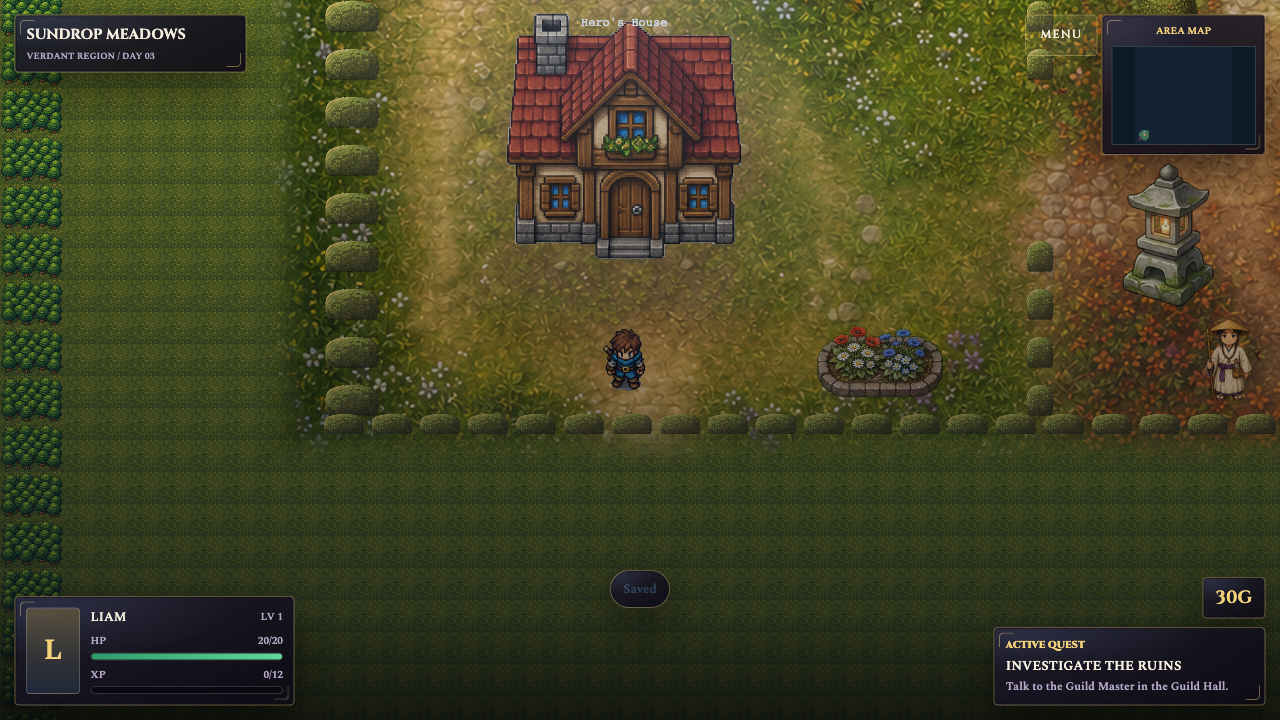
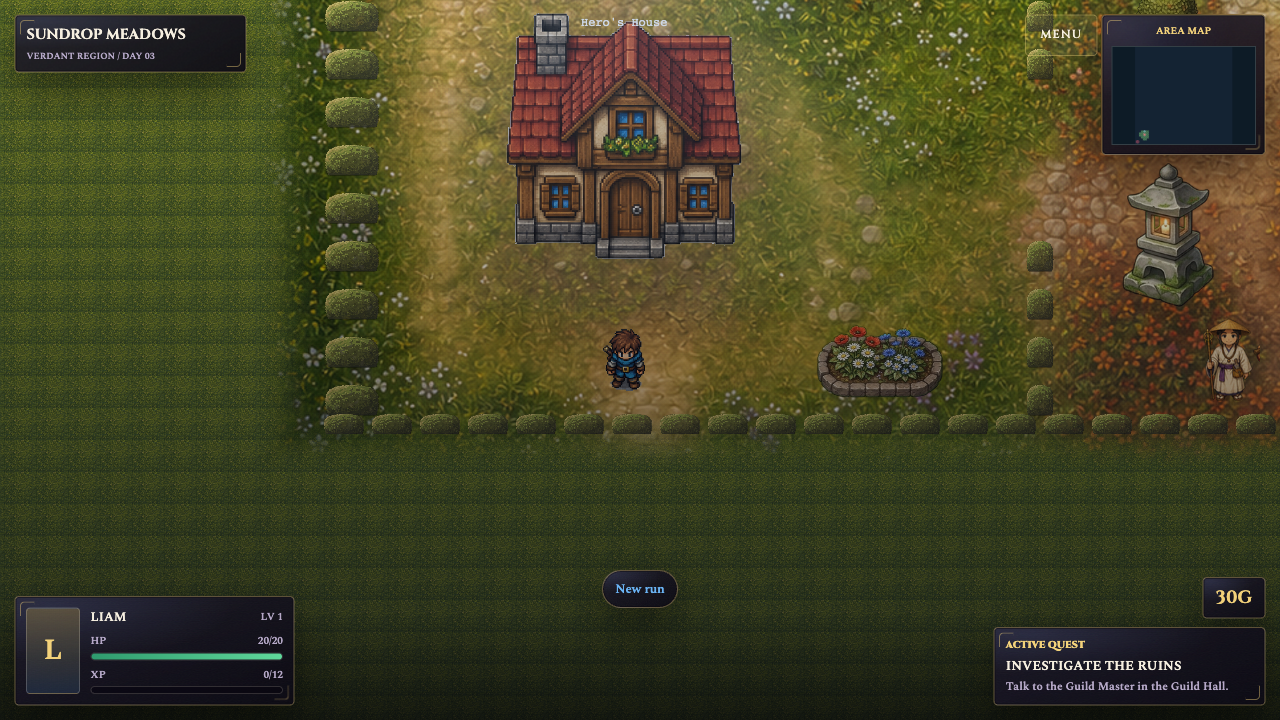
fix(maps): clear Home Yard tree wall

Changed region(s): [[0.0, 0.0, 0.0625, 0.8556], [0.4688, 0.7944, 0.5312, 0.8556]]

diff --git a/src/lib/game/content/maps.test.ts b/src/lib/game/content/maps.test.ts
@@ -1212,7 +1212,7 @@ describe('opening map content', () => {
 		}
 	});
 
-	it('renders village-internal walls as garden-hedge and keeps meadow boundaries as town-hedge', () => {
+	it('renders village-internal walls as garden-hedge and keeps the remaining meadow boundaries as town-hedge', () => {
 		const internal = meadowEntryMap.blockers?.filter((b) => b.kind === 'garden-hedge') ?? [];
 		const meadowBoundaries =
 			meadowEntryMap.blockers?.filter(
@@ -1228,16 +1228,17 @@ describe('opening map content', () => {
 		// 32px-tall blockers). A wider band would admit a silently-dropped wall.
 		expect(internal.length).toBeGreaterThanOrEqual(30);
 		expect(internal.length).toBeLessThanOrEqual(50);
-		// The 4 world-edge boundaries stay forest tree-cluster
+		// The west tree line stops at the baked-village origin to leave Home Yard
+		// visually open; all four boundaries retain the northern overworld edge.
 		expect(meadowBoundaries).toHaveLength(4);
-		expect(meadowBoundaries.map((b) => b.id)).toEqual(
-			expect.arrayContaining([
-				'meadow-north-boundary',
-				'meadow-south-boundary',
-				'meadow-west-boundary',
-				'meadow-east-boundary'
-			])
-		);
+		const expectedWestBoundaryBottom =
+			sundropVillageLayered.origin.y - sundropVillageLayered.tileSize;
+		expect(meadowBoundaries.find((b) => b.id === 'meadow-west-boundary')).toMatchObject({
+			x: 32,
+			y: expectedWestBoundaryBottom / 2,
+			width: 64,
+			height: expectedWestBoundaryBottom
+		});
 		// No ocean blocker changed kind
 		expect(
 			meadowEntryMap.blockers?.some((b) => b.id === 'sundrop-southwest-ocean' && b.kind === 'ocean')
@@ -1423,9 +1424,9 @@ describe('opening map content', () => {
 				{
 					id: 'meadow-west-boundary',
 					x: 32,
-					y: 3_200,
+					y: (sundropVillageLayered.origin.y - sundropVillageLayered.tileSize) / 2,
 					width: 64,
-					height: 6_400,
+					height: sundropVillageLayered.origin.y - sundropVillageLayered.tileSize,
 					kind: 'town-hedge'
 				},
 				{

diff --git a/src/lib/game/content/maps/meadow-entry.ts b/src/lib/game/content/maps/meadow-entry.ts
@@ -2,6 +2,7 @@ import type { WorldMapDefinition } from '$lib/game/content/maps/types';
 import type { RegionFragment } from '$lib/game/content/maps/regions/types';
 import { addEnglishMapText } from '$lib/game/content/maps/text';
 import { villageRegion } from '$lib/game/content/maps/regions/village';
+import { sundropVillageLayered } from '$lib/game/content/maps/regions/village-layered';
 import { wildwoodRegion } from '$lib/game/content/maps/regions/wildwood';
 import { mistfenRegion } from '$lib/game/content/maps/regions/mistfen';
 import { silverpineRegion } from '$lib/game/content/maps/regions/silverpine';
@@ -10,6 +11,8 @@ import { crossroadsRegion } from '$lib/game/content/maps/regions/crossroads';
 import { pathsRegion } from '$lib/game/content/maps/regions/paths';
 
 export const openingMapId = 'meadow-entry';
+
+const meadowWestBoundaryBottom = sundropVillageLayered.origin.y - sundropVillageLayered.tileSize;
 
 const meadowBoundsRegion: RegionFragment = {
 	blockers: [
@@ -22,7 +25,18 @@ const meadowBoundsRegion: RegionFragment = {
 			height: 64,
 			kind: 'town-hedge'
 		},
-		{ id: 'meadow-west-boundary', x: 32, y: 3_200, width: 64, height: 6_400, kind: 'town-hedge' },
+		{
+			// Preserve the northern overworld edge, but stop at the baked village
+			// origin, with one authored tile of visual clearance, so Home Yard
+			// has no repeated tree wall. WorldScene clamps movement along the
+			// remaining west map edge.
+			id: 'meadow-west-boundary',
+			x: 32,
+			y: meadowWestBoundaryBottom / 2,
+			width: 64,
+			height: meadowWestBoundaryBottom,
+			kind: 'town-hedge'
+		},
 		{
 			id: 'meadow-east-boundary',
 			x: 6_368,

diff --git a/src/lib/game/phaser/scenes/scenes.test.ts b/src/lib/game/phaser/scenes/scenes.test.ts
@@ -3216,6 +3216,31 @@ describe('WorldScene', () => {
 		expect(phaserState.enemyMarker.y).toBe(320);
 	});
 
+	it('keeps the Home Yard west view free of the map-edge tree wall', async () => {
+		const { forestDressingAsset } = await import('$lib/game/content/assets');
+		const { meadowEntryMap } = await import('$lib/game/content/maps');
+		const { sundropVillageLayered } =
+			await import('$lib/game/content/maps/regions/village-layered');
+		const { WorldScene } = await import('./WorldScene');
+		const scene = new WorldScene();
+
+		scene.create({ mapId: meadowEntryMap.id });
+
+		const westBoundaryTrees = phaserState.imageMarkers.filter(
+			(marker) =>
+				marker.x === 32 &&
+				marker.texture === forestDressingAsset.key &&
+				marker.frame === 'treeCluster'
+		);
+		const expectedTreeLineBottom = sundropVillageLayered.origin.y - sundropVillageLayered.tileSize;
+
+		expect(westBoundaryTrees.length).toBeGreaterThan(0);
+		for (const tree of westBoundaryTrees) {
+			expect(tree.setDisplaySize).toHaveBeenCalledWith(64, 48);
+			expect(tree.y + 48 / 2).toBeLessThanOrEqual(expectedTreeLineBottom);
+		}
+	});
+
 	it('renders village building landmarks without doorway markers for compact interiors', async () => {
 		const { villageBuildingAsset } = await import('$lib/game/content/assets');
 		const { WorldScene } = await import('./WorldScene');

diff --git a/docs/superpowers/reports/2026-07-25-hpa-307-baked-background-validation.md b/docs/superpowers/reports/2026-07-25-hpa-307-baked-background-validation.md
@@ -281,6 +281,35 @@ corrected control, fingerprint chain, unchanged base PNG, and explicit reapprova
   building-entrance, and composed-collision overlays confirmed aligned routes and approaches,
   with no baked scarecrow or upright replacement.
 
+## 2026-07-26 follow-up: Home Yard west-edge tree wall
+
+- Follow-up visual feedback clarified that the unwanted obstacle was the repeated tree wall
+  at the far-left edge of the Home Yard camera, not only the previously removed scarecrow.
+- The wall came from the full-height `meadow-west-boundary` blocker. `WorldScene` rendered
+  its `town-hedge` kind as 134 repeated `forest-dressing/treeCluster` images at `x=32`;
+  43 marker centers were at or below the baked village origin.
+- Shortened only `meadow-west-boundary` from the full `6400 px` map height to `4320 px`.
+  Its extent is derived from the authored village origin and tile size, preserving the
+  northern overworld edge while ending one `32 px` authored tile before the baked village.
+  Movement beside the remaining west map edge stays constrained by `WorldScene`'s existing
+  player-radius clamp against the `6400×6400` map bounds. The other meadow edge blockers,
+  village hedges, room graph, routes, buildings, doors, props, and pickups remain unchanged.
+- A renderer-level regression test failed against the previous source with 134 total
+  west-edge tree-cluster markers. It now verifies each retained tree sprite's complete
+  `48 px` rendered extent ends at or before the one-tile village clearance. The affected
+  map, layered village, and scene suites pass 315 tests.
+- Regenerating the nine art controls retained fingerprint
[1 lines of base64/hex data omitted]
+  with no control diff. The refreshed
+  [Home Yard capture](img/hpa-307/runtime-district-home-yard.png) shows open terrain where
+  the stale tree wall appeared.
+- Current follow-up gates pass: art validation 22 tests, the complete unit suite 51 files
+  and 831 tests, the complete Playwright suite 17 scenarios, Svelte check with zero
+  diagnostics, Prettier/ESLint, and the strict Tauri frontend build with its no-story-prose
+  assertion. The first sandboxed complete-unit attempt was environment-red when macOS denied
+  Chromium's Mach-port registration; the unchanged suite passed with browser-launch
+  permission.
+
 ## Automated validation
 
 ### Task 11 revision gate matrix
@@ -682,8 +711,8 @@ before the reviewed copies were committed.
   exactly after reload.
 - The six district captures remain visually distinct while live buildings, NPCs, door
   approaches, labels, minimap, and HUD remain legible.
-- The Home Yard capture confirms that the removed upright scarecrow has not returned and
-  that its former space remains open.
+- The refreshed Home Yard capture confirms that neither the west-edge tree wall nor the
+  removed upright scarecrow has returned, and that both areas remain open.
 - The four seam captures retain open transition geometry and alpha blending without a hard
   missing-texture boundary. They also make the still-noticeable rich-baked-to-plain-fallback
   material shift explicit instead of treating alpha blending as an invisible seam.
